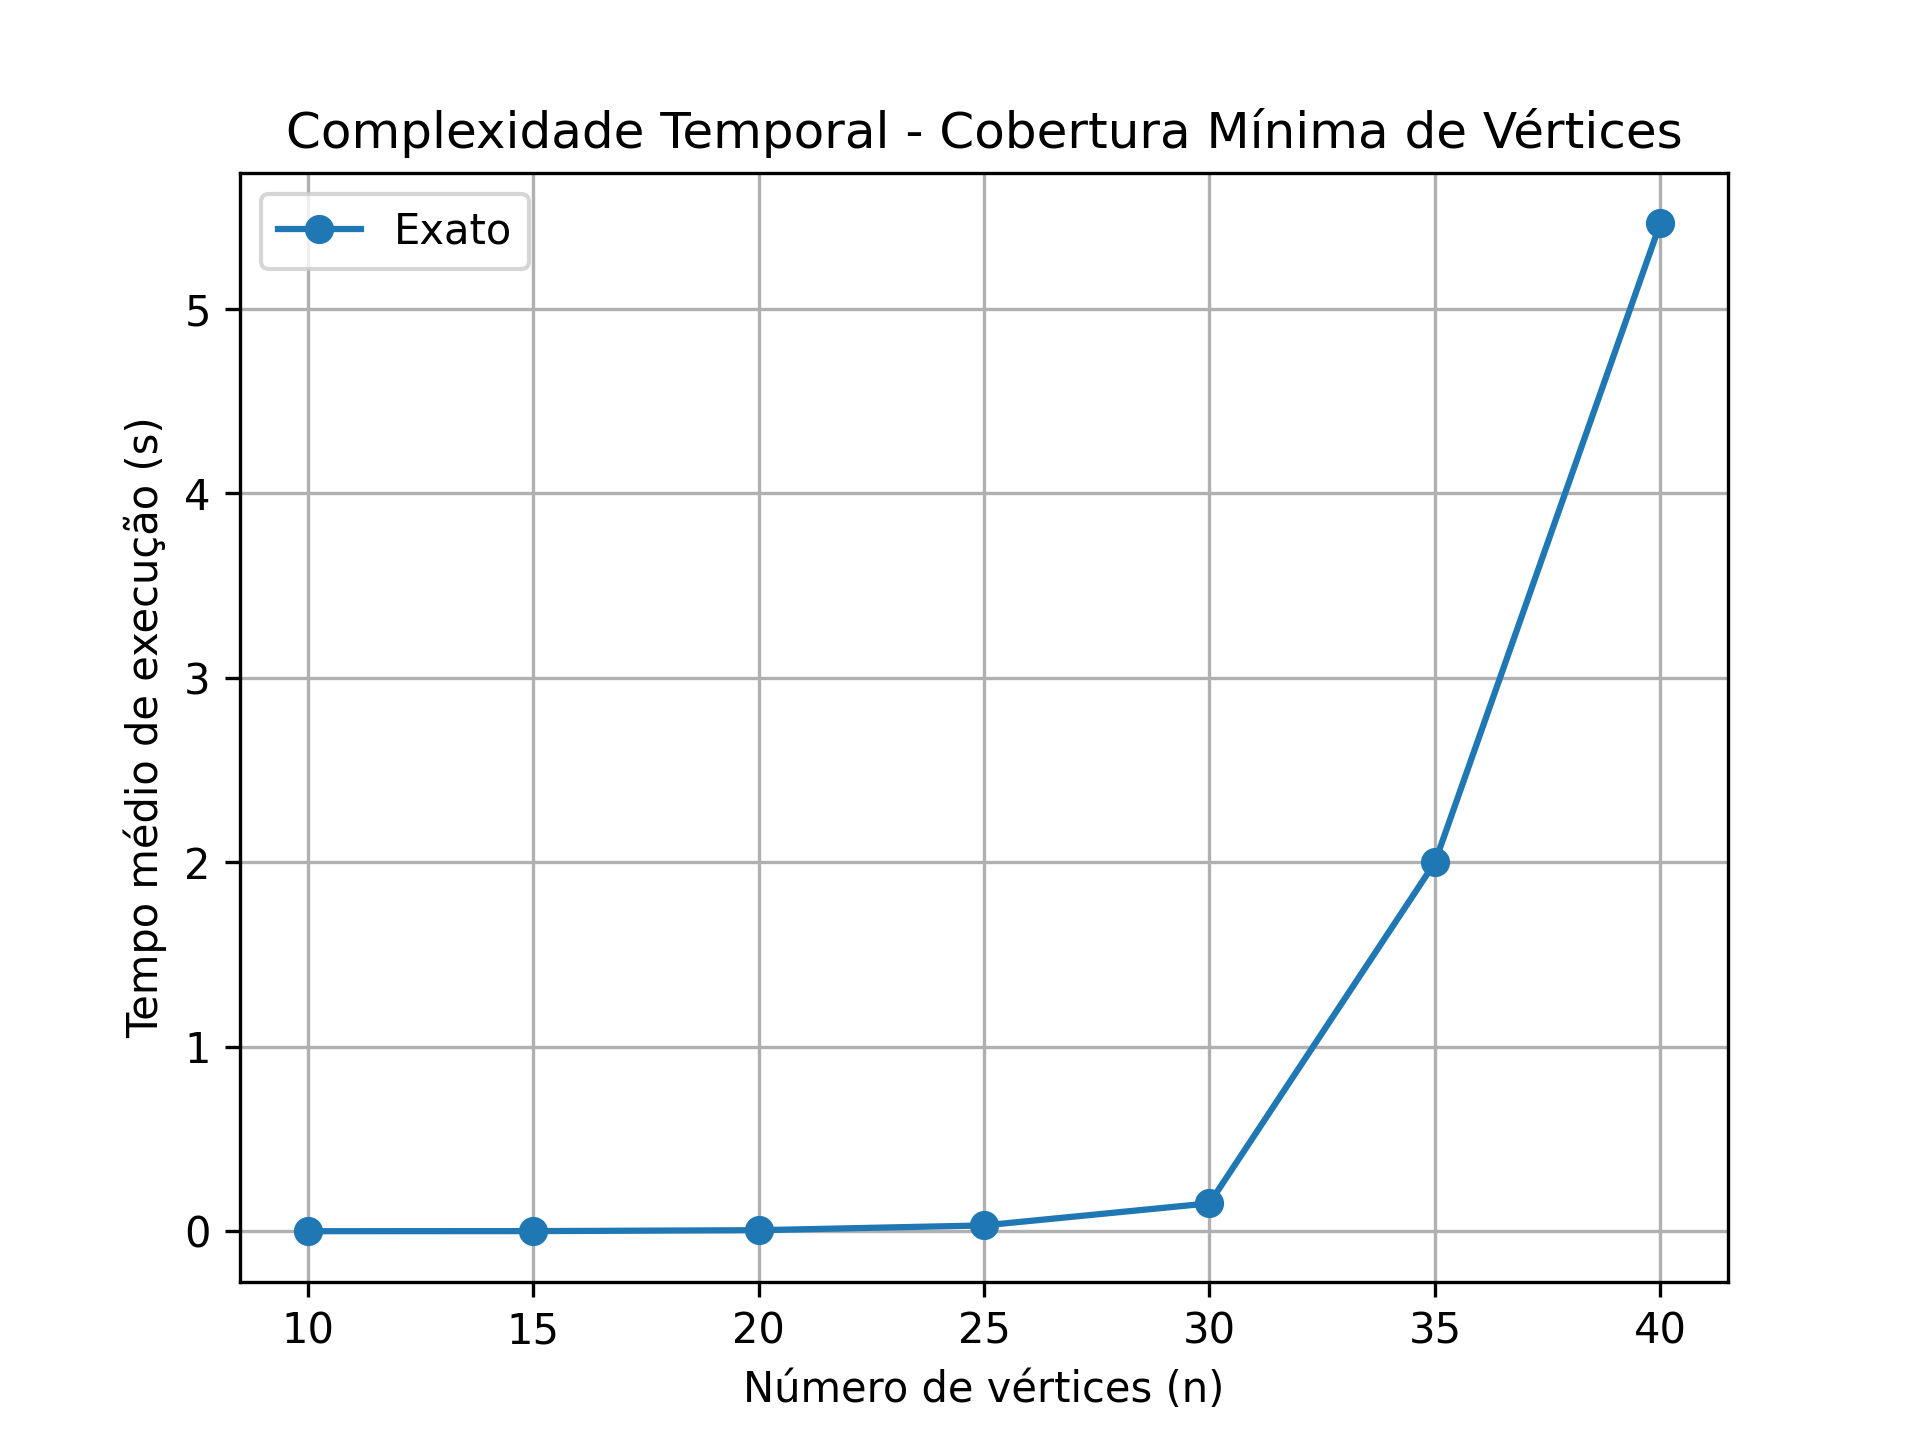
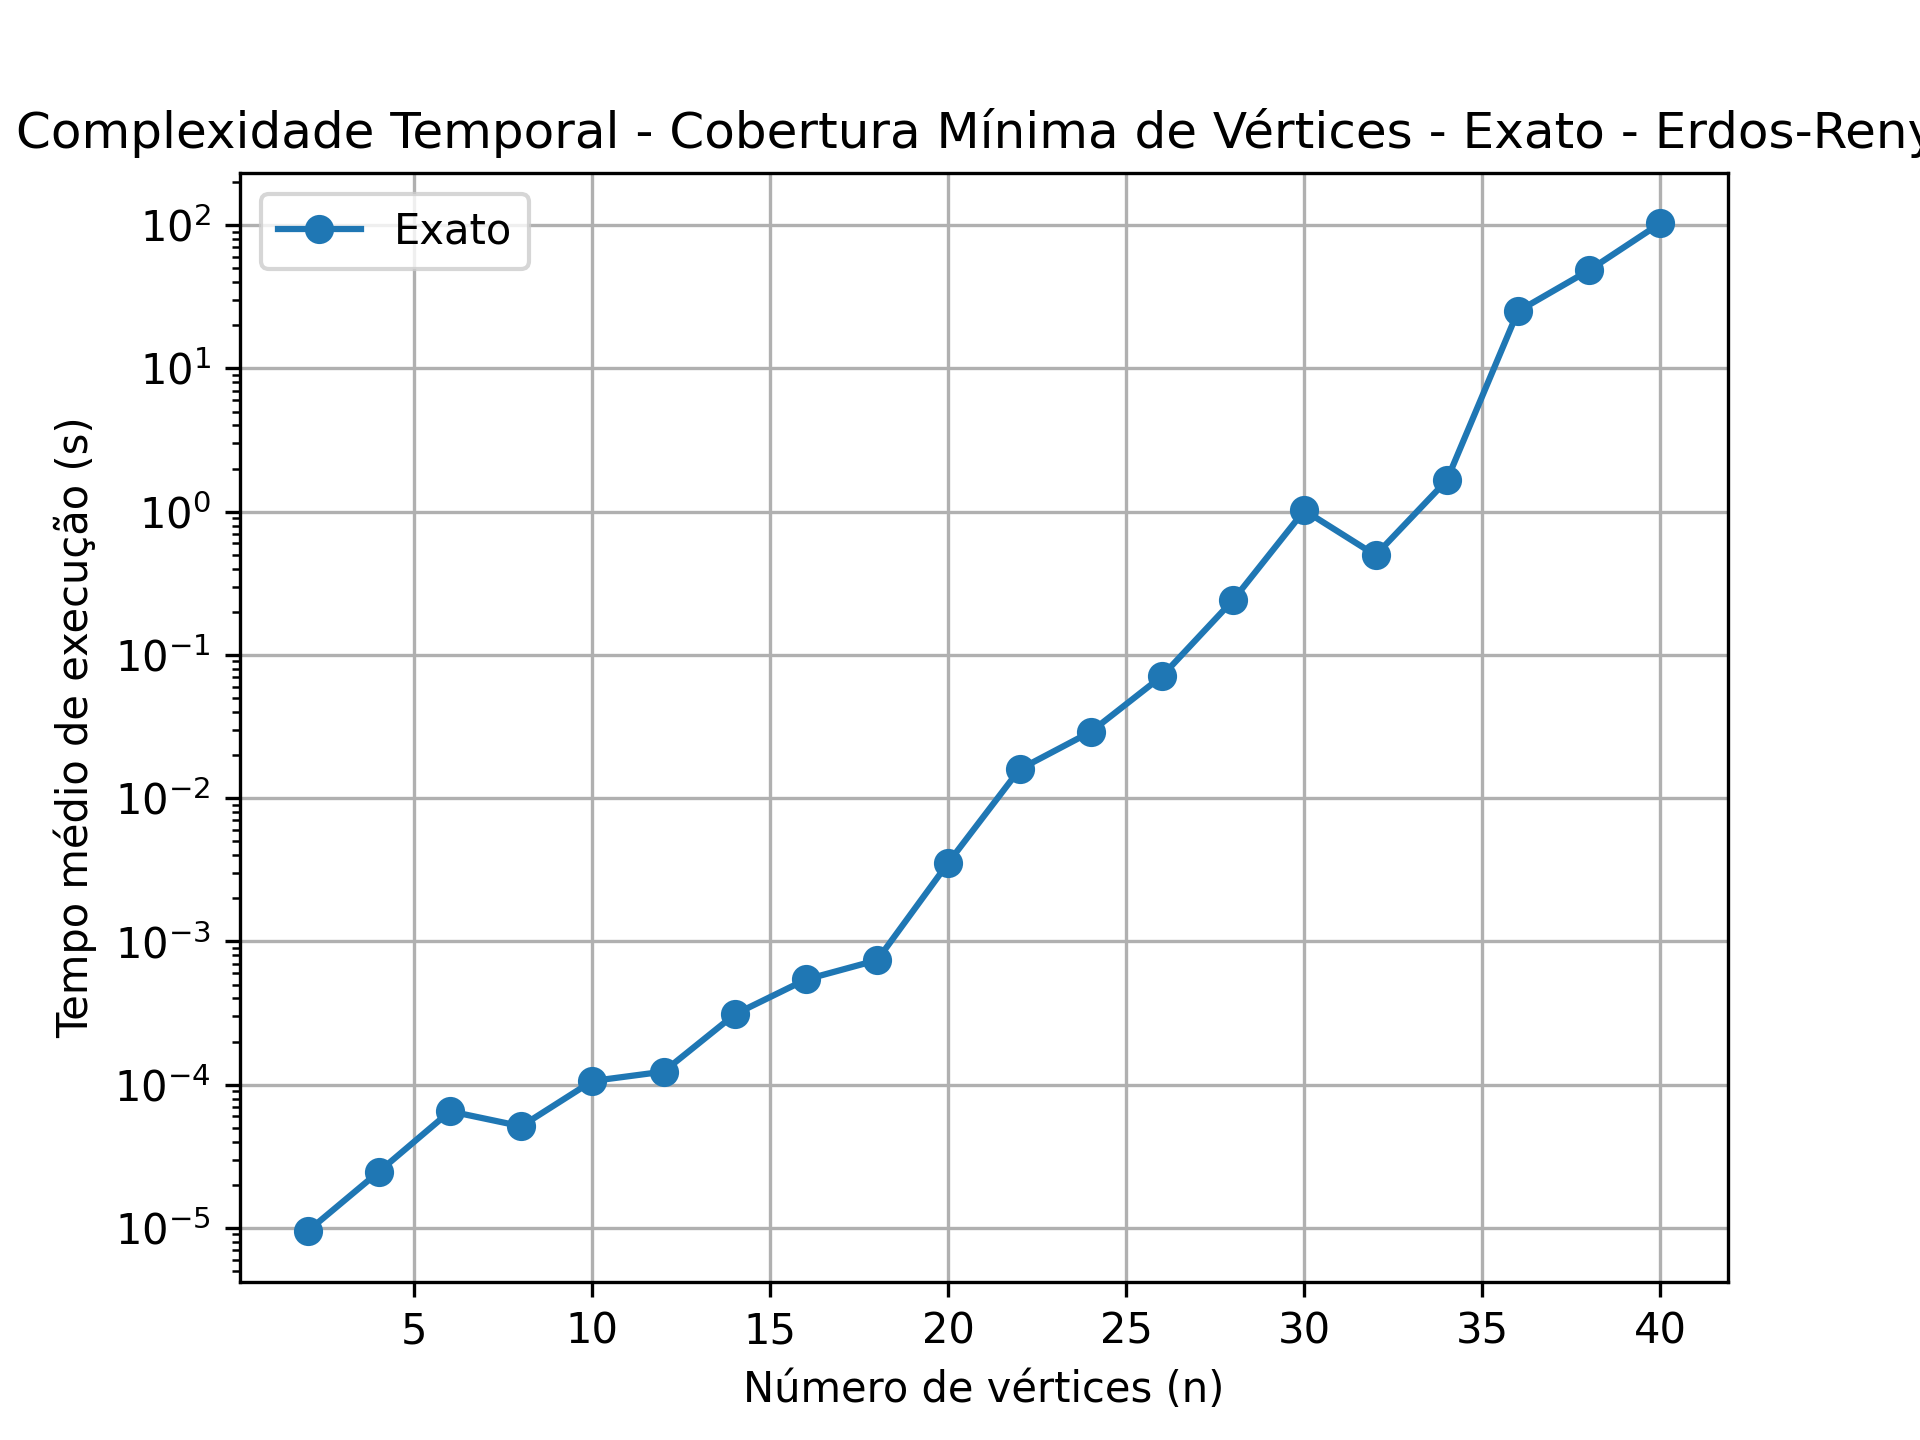
atualizando graficos de experimentos

diff --git a/plot_experiments.py b/plot_experiments.py
@@ -1,7 +1,7 @@
 import pandas as pd
 import matplotlib.pyplot as plt
 
-def plot_experiments(filename: str = "experiments/results.csv"):
+def plot_experiments(filename: str = "experiments/results.csv", algoritmo: int = None, gerador: int = None):
     """
     Plota os resultados dos experimentos salvos em 'experiments/results.csv'.
     """
@@ -11,7 +11,10 @@ def plot_experiments(filename: str = "experiments/results.csv"):
         subset = df[df["Algoritmo"] == solver]
         plt.plot(subset["Vertices"], subset["Tempo Médio (s)"], marker='o', label=solver)
 
-    plt.title("Complexidade Temporal - Cobertura Mínima de Vértices")
+    if algoritmo == 2:  # Exato
+        plt.yscale("log")
+
+    plt.title(f"Complexidade Temporal - Cobertura Mínima de Vértices - {"Aproximado" if algoritmo == 1 else "Exato" if algoritmo == 2 else "Busca Tabu"} - {"Erdos-Renyi" if gerador == 1 else "Barabasi-Albert" if gerador == 2 else "Watts-Strogatz"}")
     plt.xlabel("Número de vértices (n)")
     plt.ylabel("Tempo médio de execução (s)")
     plt.legend()

diff --git a/main.py b/main.py
@@ -173,7 +173,7 @@ def main():
                     continue
                 repetitions = int(input("Número de repetições por grafo (para cálculo da média): "))
                 run_experiments(start, stop, step, algorithm, repetitions, gerador)
-                plot_experiments(f"experiments/resultados_{ 'aproximado' if algorithm == 1 else 'exato' if algorithm == 2 else 'busca_tabu' }.csv")
+                plot_experiments(f"experiments/resultados_{'erdos-renyi' if gerador == 1 else 'barabasi-albert' if gerador == 2 else 'watts-strogatz'}_{ 'aproximado' if algorithm == 1 else 'exato' if algorithm == 2 else 'busca_tabu' }.csv", algoritmo=algorithm, gerador=gerador)
                 break
 
             else:
